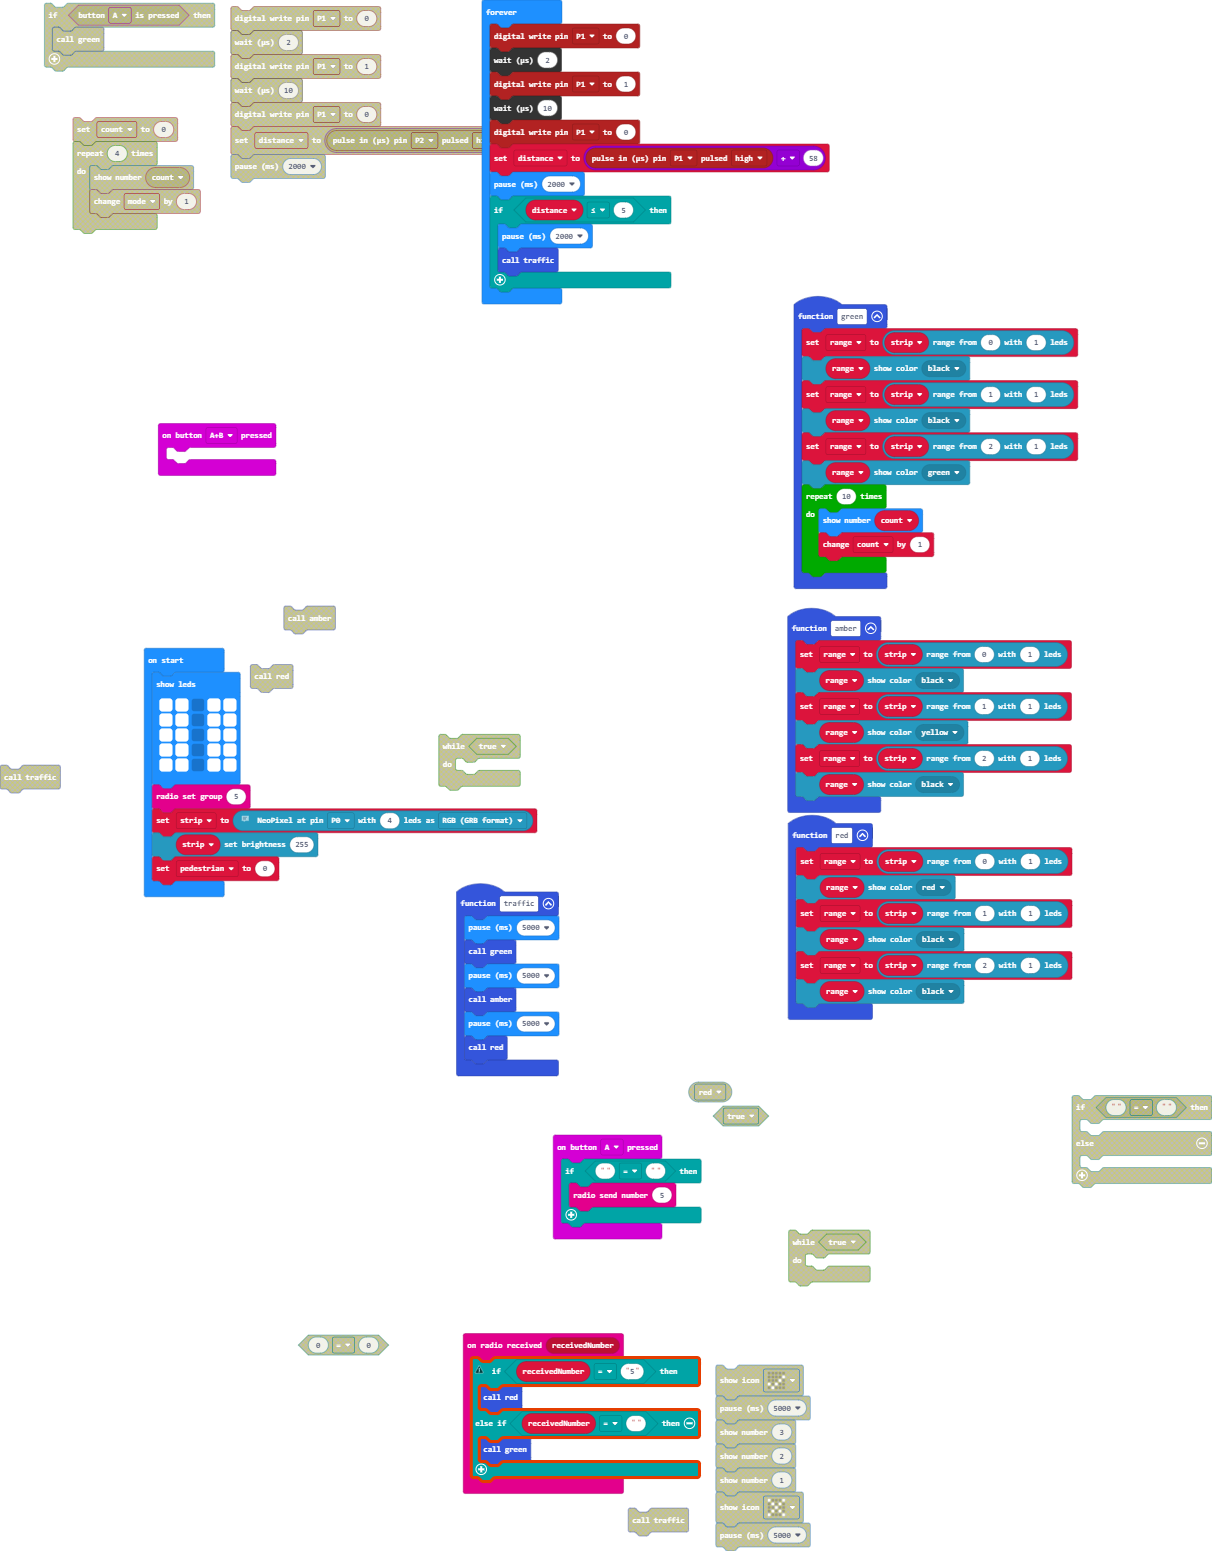
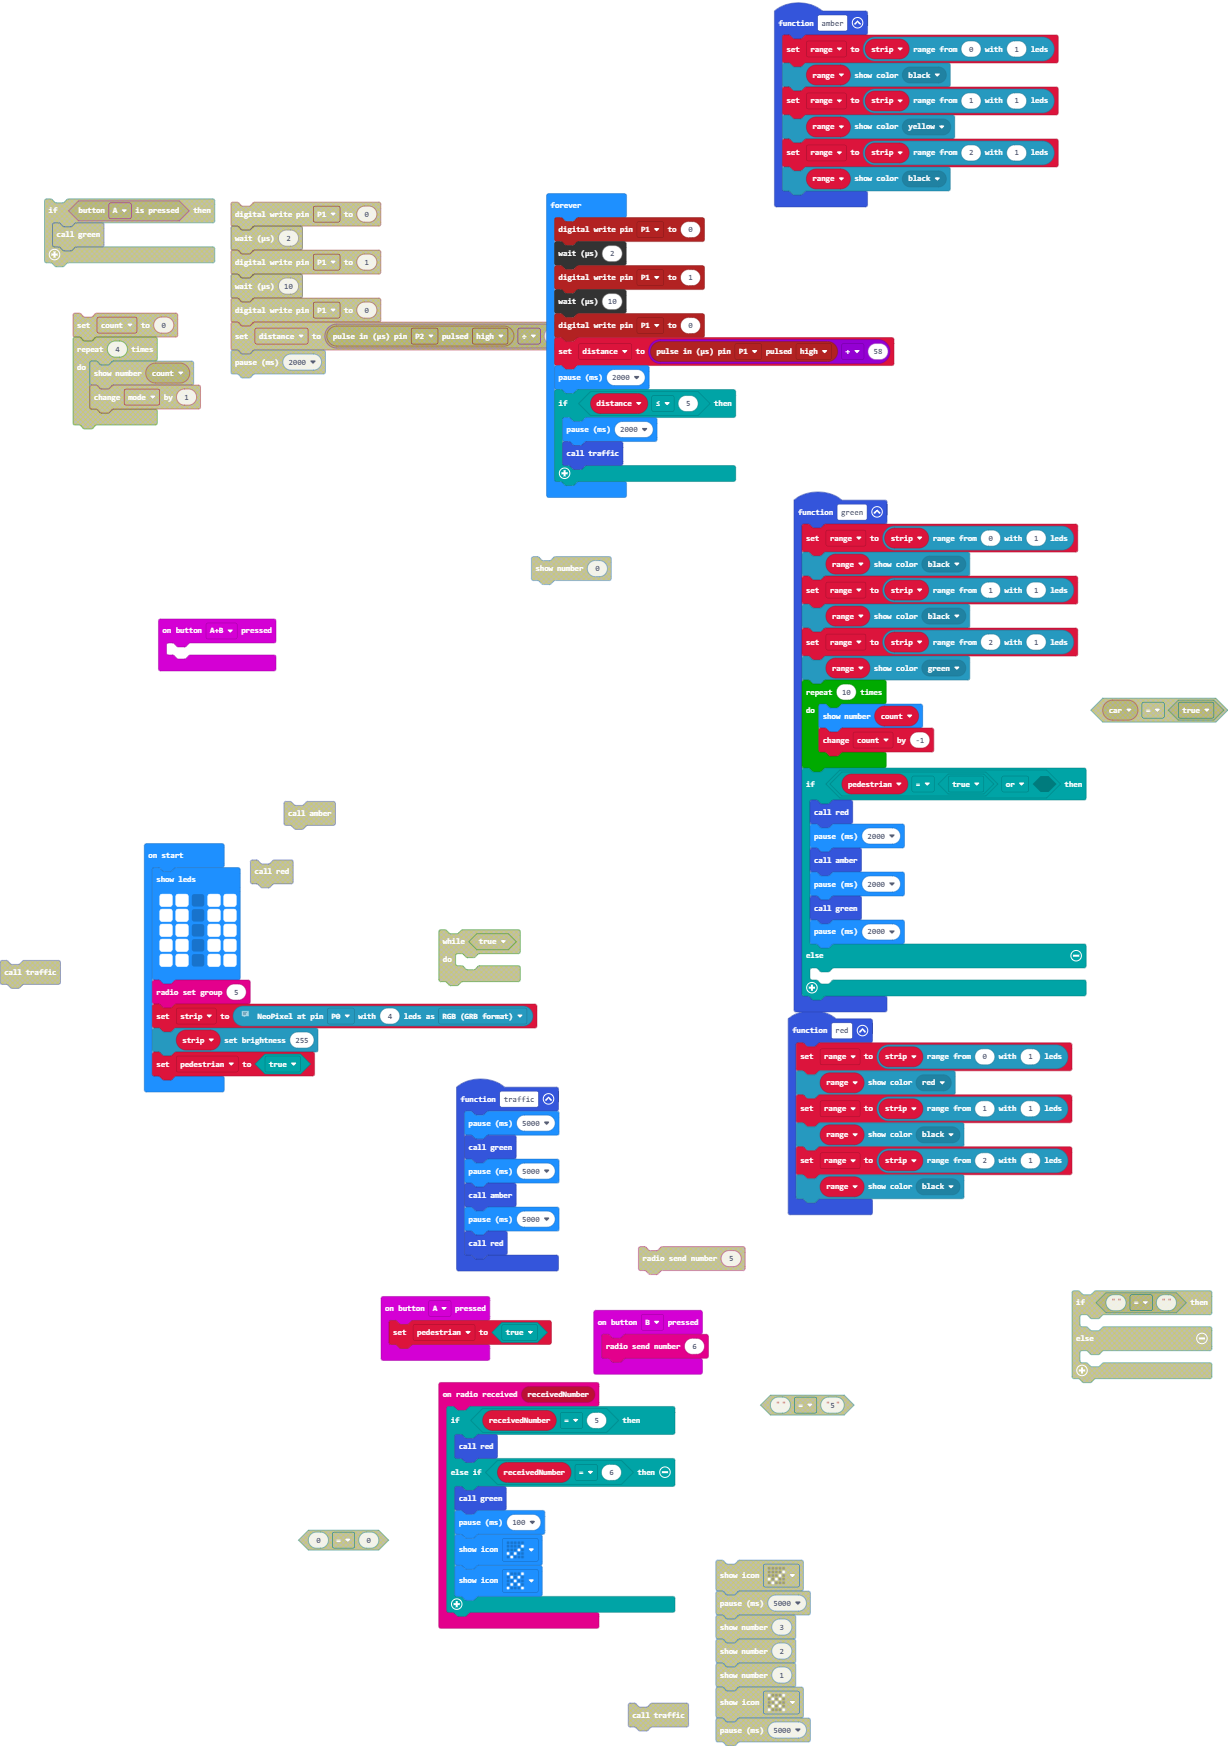
Update main.blocks, main.ts

diff --git a/main.ts b/main.ts
@@ -1,8 +1,11 @@
 radio.onReceivedNumber(function (receivedNumber) {
-    if (receivedNumber == "5") {
+    if (receivedNumber == 5) {
         red()
-    } else if (receivedNumber == "") {
+    } else if (receivedNumber == 6) {
         green()
+        basic.pause(100)
+        basic.showIcon(IconNames.Yes)
+        basic.showIcon(IconNames.No)
     }
 })
 function green () {
@@ -14,13 +17,21 @@ function green () {
     range.showColor(neopixel.colors(NeoPixelColors.Green))
     for (let index = 0; index < 10; index++) {
         basic.showNumber(count)
-        count += 1
+        count += -1
+    }
+    if (pedestrian == true || false) {
+        red()
+        basic.pause(2000)
+        amber()
+        basic.pause(2000)
+        green()
+        basic.pause(2000)
+    } else {
+    	
     }
 }
 input.onButtonPressed(Button.A, function () {
-    if ("" == "") {
-        radio.sendNumber(5)
-    }
+    pedestrian = true
 })
 function traffic () {
     basic.pause(5000)
@@ -41,6 +52,9 @@ function amber () {
 input.onButtonPressed(Button.AB, function () {
 	
 })
+input.onButtonPressed(Button.B, function () {
+    radio.sendNumber(6)
+})
 function red () {
     range = strip.range(0, 1)
     range.showColor(neopixel.colors(NeoPixelColors.Red))
@@ -52,6 +66,7 @@ function red () {
 let distance = 0
 let count = 0
 let range: neopixel.Strip = null
+let pedestrian = false
 let strip: neopixel.Strip = null
 basic.showLeds(`
     # # . # #
@@ -64,7 +79,7 @@ radio.setGroup(5)
 // Put this to P16 when testing.
 strip = neopixel.create(DigitalPin.P0, 4, NeoPixelMode.RGB)
 strip.setBrightness(255)
-let pedestrian = 0
+pedestrian = true
 basic.forever(function () {
     pins.digitalWritePin(DigitalPin.P1, 0)
     control.waitMicros(2)
